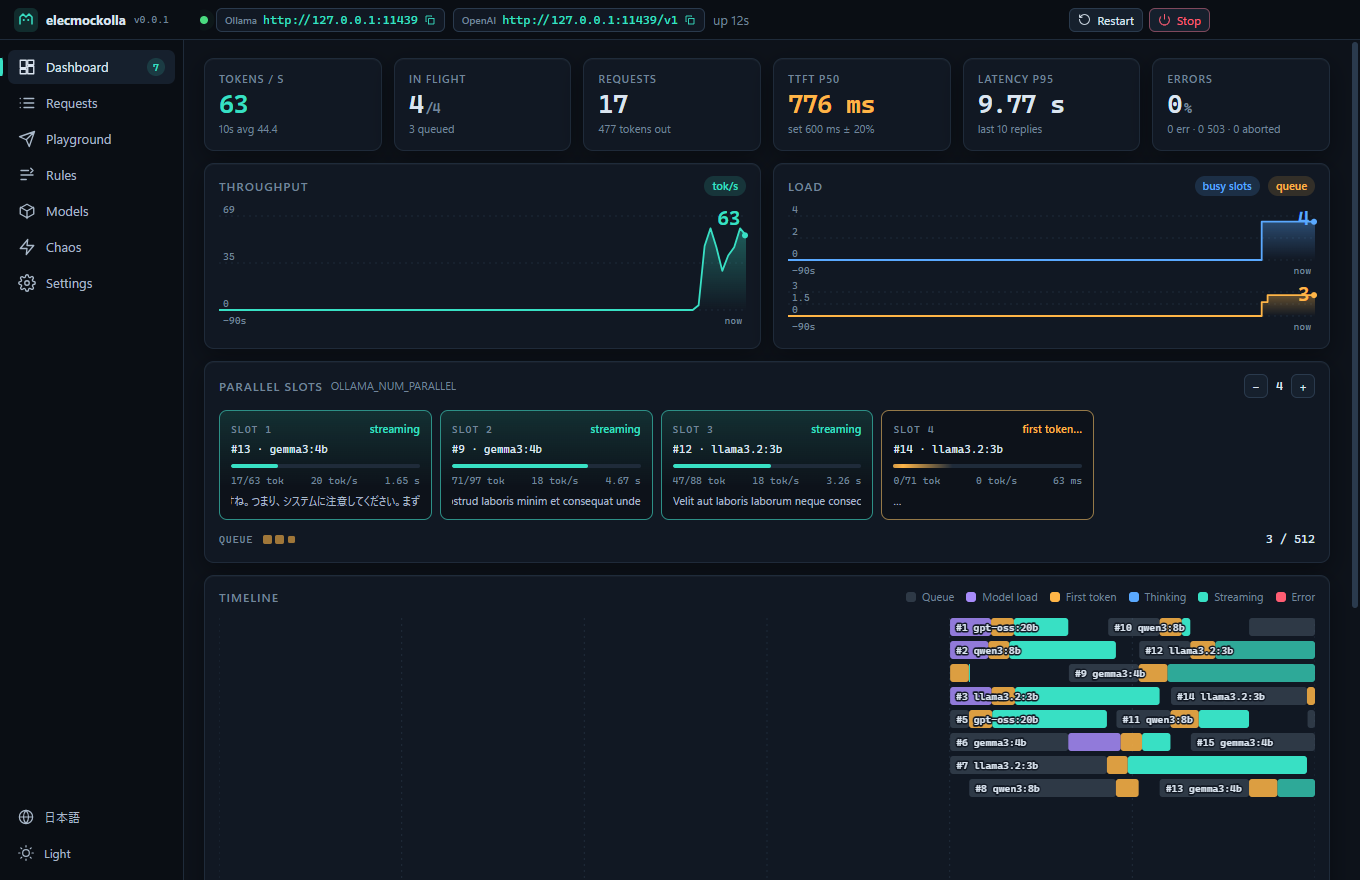
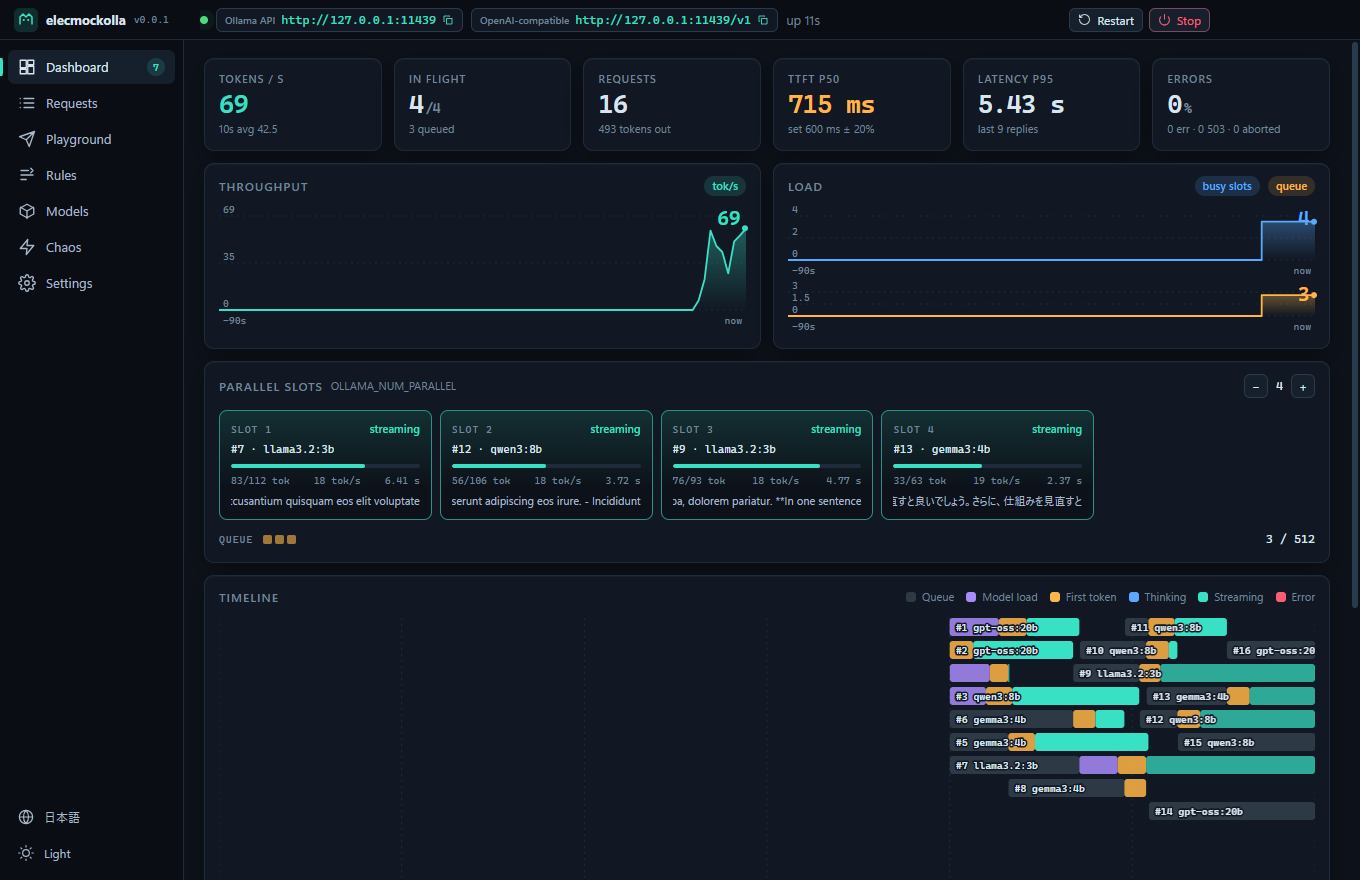
fix(ui): name the two base URLs by API, not by product / ベース URL の表記を製品名ではなく API 名にする
Title bar: "Ollama API" for /api/... and "OpenAI-compatible" for /v1/..., with tooltips naming the clients each is for. / タイトルバー: /api/… は「Ollama API」、/v1/… は「OpenAI 互換」とし、ツールチップにそれぞれ向けのクライアントを記載。
Settings: the upstream field is now "OpenAI-compatible URL", in the same terms. / 設定画面: 転送先の入力欄を同じ用語で「OpenAI 互換 URL」に変更。
The mode chip shows only the mode, the upstream stays in its tooltip, so the REC badge is no longer cut off. / モード表示はモード名だけにし、転送先 URL はツールチップに残して、録画表示が切れないようにした。
build/icon-candidates: add the title the lint rule requires. / build/icon-candidates: lint が求める title を追加。

diff --git a/src/renderer/lib/locales/ja.ts b/src/renderer/lib/locales/ja.ts
@@ -10,8 +10,12 @@ export const ja: Record<Key, string> = {
   'nav.models': 'モデル',
   'nav.chaos': '障害注入',
   'nav.settings': '設定',
-  'app.copyUrl': 'Ollama クライアント用（ollama ライブラリ、OLLAMA_HOST）のベース URL をコピー',
-  'app.copyOpenai': 'OpenAI 互換クライアント用のベース URL をコピー',
+  'app.ollamaApi': 'Ollama API',
+  'app.openaiApi': 'OpenAI 互換',
+  'app.copyUrl':
+    'Ollama API（/api/…）のベース URL をコピー: ollama ライブラリ、OLLAMA_HOST、Open WebUI など向け',
+  'app.copyOpenai':
+    'OpenAI 互換（/v1/…）のベース URL をコピー: elecdex、openai ライブラリなど OpenAI 形式のクライアント向け',
   'app.urlCopied': 'URL をコピーしました',
   'app.uptime': '稼働 {time}',
   'app.restart': '再起動',
@@ -389,9 +393,9 @@ export const ja: Record<Key, string> = {
   'app.upstreamOk': 'Ollama {version} が {url} で応答中',
   'app.upstreamDown': '{url} の Ollama に接続できません: {error}',
   'set.mode': '動作モード',
-  'set.upstream': 'Ollama の URL',
+  'set.upstream': 'OpenAI 互換 URL',
   'set.upstreamHelp':
-    'プロキシ・混在モードの転送先となる本物の Ollama。OpenAI 互換クライアントと同じく /v1 付きで指定します。',
+    'プロキシ・混在モードの転送先となる本物の Ollama の OpenAI 互換 URL（/v1 付き）。Ollama API（/api/…）も同じサーバーに送ります。',
   'set.upstreamOk': '接続中: Ollama {version}・モデル {models} 個・ロード済み {loaded} 個',
   'set.upstreamDown': '接続できません: {error}',
   'set.upstreamChecking': '確認中…',

diff --git a/src/renderer/App.svelte b/src/renderer/App.svelte
@@ -60,11 +60,11 @@ function onKey(e: KeyboardEvent) {
       <span class="dot" class:live={st === 'running'} class:warn={st === 'starting' || st === 'stopping'} class:bad={st === 'error'}></span>
       {#if st === 'running'}
         <button class="url mono" title={t('app.copyUrl')} onclick={() => store.copy(store.status.url, t('app.urlCopied'))}>
-          <em>Ollama</em>{store.status.url}
+          <em>{t('app.ollamaApi')}</em>{store.status.url}
           <Icon name="copy" size={12} />
         </button>
         <button class="url mono" title={t('app.copyOpenai')} onclick={() => store.copy(`${store.status.url}/v1`, t('app.urlCopied'))}>
-          <em>OpenAI</em>{store.status.url}/v1
+          <em>{t('app.openaiApi')}</em>{store.status.url}/v1
           <Icon name="copy" size={12} />
         </button>
         <span class="muted">{t('app.uptime', { time: fmtUptime((snap?.now ?? 0) - (snap?.startedAt ?? 0)) })}</span>
@@ -78,7 +78,7 @@ function onKey(e: KeyboardEvent) {
             onclick={() => (store.page = 'settings')}
           >
             <span class="dot" class:live={up?.ok} class:bad={up !== null && up.checkedAt > 0 && !up.ok}></span>
-            {t(`mode.${mode}`)} → {store.config.upstream.replace(/^https?:\/\//, '')}
+            {t(`mode.${mode}`)}
           </button>
           {#if store.config.record}
             <button class="rec" title={t('app.recTitle', { path: store.recordingsPath })} onclick={() => (store.page = 'rules')}>

diff --git a/src/renderer/lib/locales/en.ts b/src/renderer/lib/locales/en.ts
@@ -11,8 +11,12 @@ export const en = {
   'nav.models': 'Models',
   'nav.chaos': 'Chaos',
   'nav.settings': 'Settings',
-  'app.copyUrl': 'Copy the base URL for Ollama clients (ollama libraries, OLLAMA_HOST)',
-  'app.copyOpenai': 'Copy the base URL for OpenAI-compatible clients',
+  'app.ollamaApi': 'Ollama API',
+  'app.openaiApi': 'OpenAI-compatible',
+  'app.copyUrl':
+    'Copy the Ollama API base URL (/api/...): for ollama libraries, OLLAMA_HOST, Open WebUI',
+  'app.copyOpenai':
+    'Copy the OpenAI-compatible base URL (/v1/...): for elecdex, openai libraries and other OpenAI-style clients',
   'app.urlCopied': 'URL copied',
   'app.uptime': 'up {time}',
   'app.restart': 'Restart',
@@ -386,9 +390,9 @@ export const en = {
   'app.upstreamOk': 'Ollama {version} is answering at {url}',
   'app.upstreamDown': 'Ollama at {url} is not reachable: {error}',
   'set.mode': 'Mode',
-  'set.upstream': 'Ollama URL',
+  'set.upstream': 'OpenAI-compatible URL',
   'set.upstreamHelp':
-    'The real Ollama that proxy and mixed modes forward to, as OpenAI clients take it (ending in /v1).',
+    'The real Ollama that proxy and mixed modes forward to: its OpenAI-compatible URL, ending in /v1. Ollama API requests (/api/...) go to the same server.',
   'set.upstreamOk': 'Connected: Ollama {version}, {models} models, {loaded} loaded',
   'set.upstreamDown': 'Not reachable: {error}',
   'set.upstreamChecking': 'Checking…',
